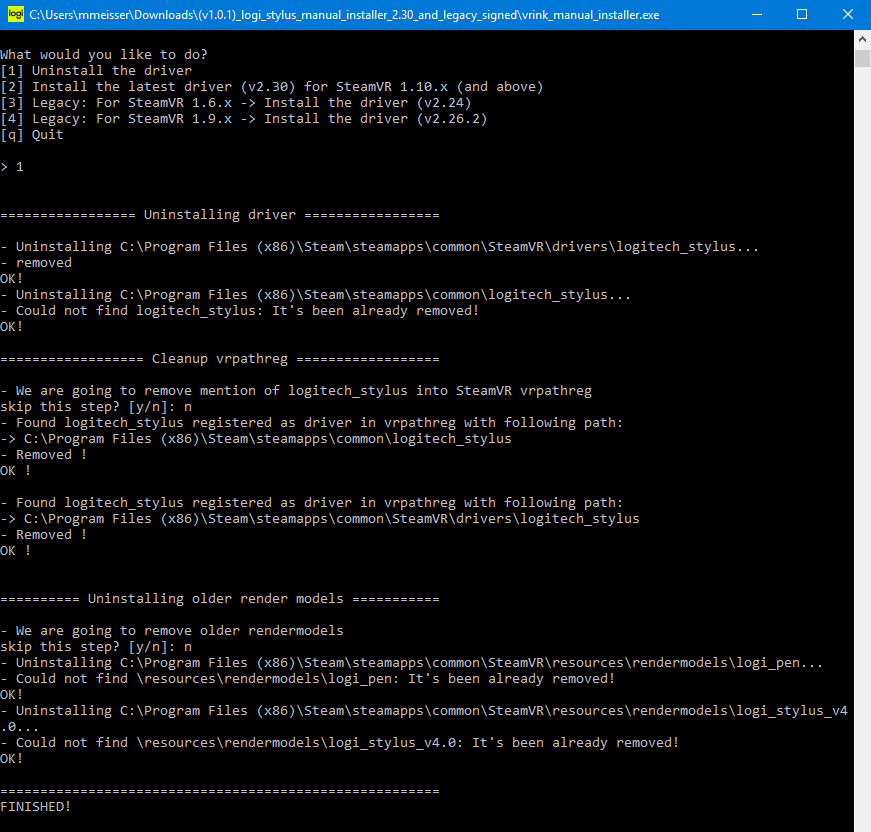
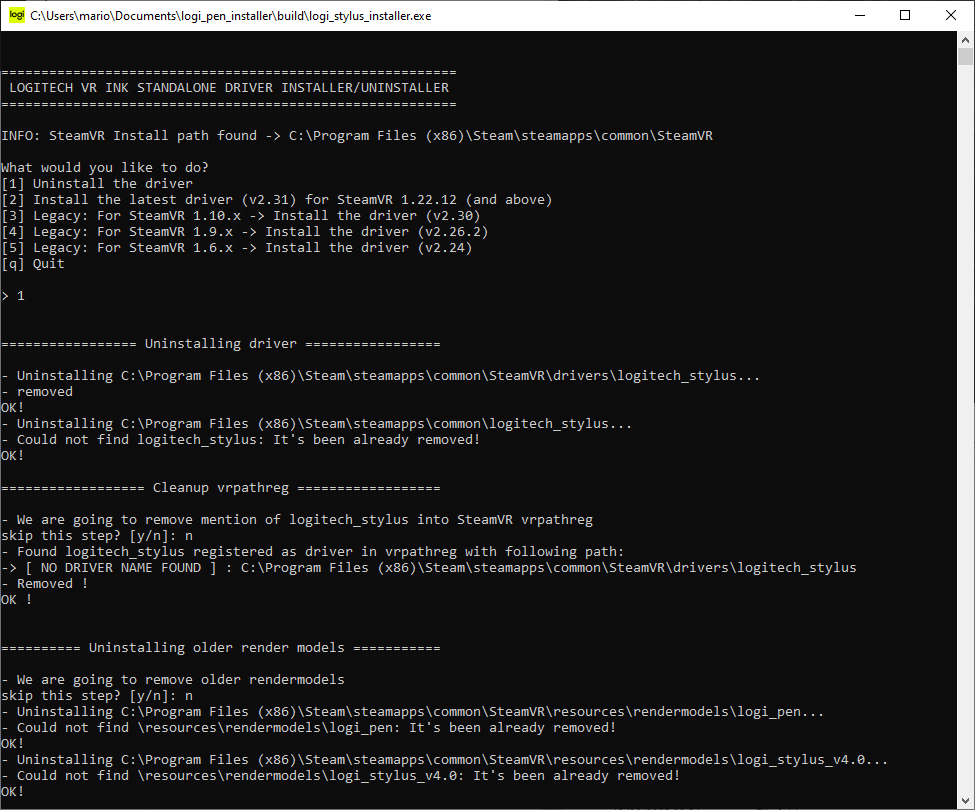
Update installer images and instructions

Changed region(s): [[0.0, 0.0, 1.0, 1.0]]

diff --git a/Documentation/Driver/installer.md b/Documentation/Driver/installer.md
@@ -16,7 +16,7 @@ Here is the list of supported versions for the manual installer:
 |**1.6.x**|v 2.24|
 |**1.9.x**|v 2.26.2|
 |**1.10.x**|v 2.30|
-|**1.12.12**|v 2.31| latest
+|**1.22.12** and later|v 2.31| latest
 
 <br>
 
@@ -38,7 +38,7 @@ The Installer/Uninstaller is able to:
 - run the `vrink_manual_installer.exe` <br><br>
 ![VR Ink Status](./../Images/Driver/vrink_manual_installer_1.png)
 - RECOMMENDED: if you think you've installed a previous version of our driver, it's better to start by **uninstalling** it first, by choosing option `1`
-- then select your option `2,3,4`, depending on the SteamVR version that you have.
+- then select your option `2,3,4,5`, depending on the SteamVR version that you have.
 - Follow the instructions on the console.
 - in case you are asked a question, you can either choose `y` or `yes` to agree or simply **hit ENTER (or any key) to proceed**.
 
